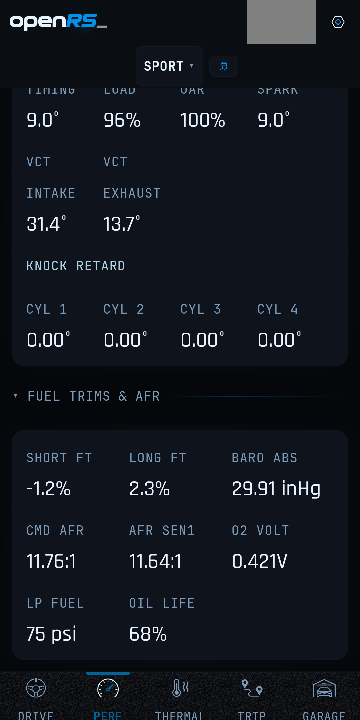
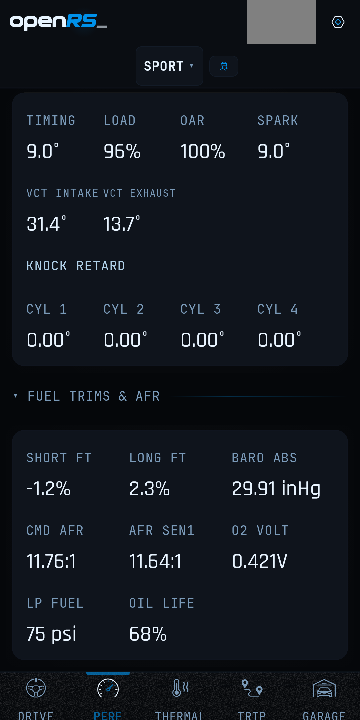
Keep readout grid labels clear of the next column (#593)
At 360 dp and font 1.3 TRIP's live readout drew FUEL USED up against ECONOMY
(2.3 dp apart): the label filled its quarter of the row.

ReadoutGrid's captions are now ReadoutLabel: InstrumentLabel's look (Material's
text style underneath, so nothing moves at font 1.0), one line, 4 dp of end
padding, and a step-based auto size from 10 sp down to 7 sp when the column is
too narrow. It applies to every ReadoutGrid (TRIP, replay, summary, POWER,
DIAG).

TripReadoutFitTest composes the production TripPage at 360 dp, font 1.0 / 1.3,
in every fuel and economy unit; it failed on staging for all 12 unit pairs at
1.3 and passes now. Goldens re-recorded: only font 1.3 and 2.0 images of TRIP,
PERF and DIAG changed.

Changed region(s): [[0.0611, 0.1222, 0.4583, 0.275], [0.7028, 0.1222, 0.825, 0.2139], [0.4889, 0.1528, 0.6111, 0.2139]]

diff --git a/android/app/src/test/java/com/openrs/dash/TripReadoutFitTest.kt b/android/app/src/test/java/com/openrs/dash/TripReadoutFitTest.kt
@@ -1,0 +1,126 @@
+package com.openrs.dash
+
+import android.os.Looper
+import android.view.View
+import android.view.ViewGroup
+import androidx.activity.ComponentActivity
+import androidx.activity.compose.setContent
+import androidx.compose.material3.MaterialTheme
+import androidx.compose.material3.darkColorScheme
+import androidx.compose.ui.platform.ViewRootForTest
+import androidx.compose.ui.semantics.SemanticsActions
+import androidx.compose.ui.semantics.SemanticsNode
+import androidx.compose.ui.semantics.SemanticsProperties
+import androidx.compose.ui.semantics.getOrNull
+import androidx.compose.ui.text.TextLayoutResult
+import com.openrs.dash.data.DriveState
+import com.openrs.dash.data.VehicleState
+import com.openrs.dash.ui.Accent
+import com.openrs.dash.ui.Bg
+import com.openrs.dash.ui.Surf
+import com.openrs.dash.ui.UserPrefs
+import com.openrs.dash.ui.trip.TripPage
+import com.openrs.dash.ui.units.UnitIds
+import org.junit.After
+import org.junit.Assert.assertEquals
+import org.junit.Test
+import org.junit.runner.RunWith
+import org.robolectric.Robolectric
+import org.robolectric.RobolectricTestRunner
+import org.robolectric.RuntimeEnvironment
+import org.robolectric.Shadows.shadowOf
+import org.robolectric.annotation.Config
+import org.robolectric.annotation.GraphicsMode
+import org.robolectric.shadows.ShadowChoreographer
+import java.time.Duration
+
+/**
+ * #593: at 360 dp and font 1.3 the label of TRIP's live readout grid ran into its neighbour ("FUEL USEDECONOMY"). The
+ * production [TripPage] (idle, no map, as the screenshot test draws it) under the app's MaterialTheme at 360 dp, font
+ * 1.0 and 1.3, in every fuel volume and economy unit: each label of the readout's three rows is one line and ends at
+ * least [GAP_DP] before the next column's label starts.
+ */
+@RunWith(RobolectricTestRunner::class)
+@GraphicsMode(GraphicsMode.Mode.NATIVE)
+@Config(qualifiers = "w360dp-h720dp-xxhdpi", application = OpenRSDashApp::class)
+class TripReadoutFitTest {
+
+    private companion object {
+        const val GAP_DP = 4f
+        val SCALES = listOf(1.0f, 1.3f)
+        val FUEL = listOf(UnitIds.L, UnitIds.US_GAL, UnitIds.UK_GAL)
+        val ECONOMY = listOf(UnitIds.L100KM, UnitIds.KML, UnitIds.MPG_US, UnitIds.MPG_UK)
+        /** The first label of each row; the rest of a row is every text placed level with it. */
+        val ROW_STARTS = listOf("SPEED", "COOLANT", "RDU")
+    }
+
+    @After fun tearDown() {
+        RuntimeEnvironment.setFontScale(1f)
+        idle(8)
+    }
+
+    private fun idle(frames: Int) = repeat(frames) { shadowOf(Looper.getMainLooper()).idleFor(Duration.ofMillis(16)) }
+
+    private fun nodes(root: SemanticsNode): List<SemanticsNode> = listOf(root) + root.children.flatMap { nodes(it) }
+
+    private fun textOf(n: SemanticsNode): String? = n.config.getOrNull(SemanticsProperties.Text)?.joinToString("") { it.text }
+
+    private fun composeRoot(v: View): ViewRootForTest? = v as? ViewRootForTest
+        ?: (v as? ViewGroup)?.let { g -> (0 until g.childCount).firstNotNullOfOrNull { composeRoot(g.getChildAt(it)) } }
+
+    private fun lines(n: SemanticsNode): Int? {
+        val layout = mutableListOf<TextLayoutResult>()
+        n.config.getOrNull(SemanticsActions.GetTextLayoutResult)?.action?.invoke(layout)
+        return layout.firstOrNull()?.lineCount
+    }
+
+    /** A connected car with every readout present (US-style mid-drive values; the labels don't depend on them). */
+    private val vs = VehicleState(
+        isConnected = true, speedKph = 100.0, rpm = 4340.0, coolantTempC = 93.0, oilTempC = 101.0, ambientTempC = 21.0,
+        fuelLevelPct = 61.0, rduTempC = 53.0, ptuTempC = 70.0,
+    )
+
+    private fun problems(fontScale: Float, fuel: String, economy: String): List<String> {
+        RuntimeEnvironment.setFontScale(fontScale)
+        ShadowChoreographer.setPaused(true)
+        ShadowChoreographer.setFrameDelay(Duration.ofMillis(16))
+        val p = UserPrefs(fuelUnit = fuel, economyUnit = economy)
+        val controller = Robolectric.buildActivity(ComponentActivity::class.java).setup()
+        controller.get().setContent {
+            MaterialTheme(colorScheme = darkColorScheme(background = Bg, surface = Surf, primary = Accent)) {
+                TripPage(DriveState(), vs, p, settled = false)
+            }
+        }
+        try {
+            idle(60)
+            val case = "font $fontScale $fuel $economy"
+            val density = controller.get().resources.displayMetrics.density
+            val root = composeRoot(controller.get().window.decorView)!!.semanticsOwner.unmergedRootSemanticsNode
+            val texts = nodes(root).filter { it.layoutInfo.isPlaced && textOf(it) != null }
+            val out = mutableListOf<String>()
+            for (start in ROW_STARTS) {
+                val first = texts.firstOrNull { textOf(it) == start }
+                if (first == null) { out += "[$case] '$start' not found"; continue }
+                val top = first.boundsInRoot.top
+                val row = texts.filter { kotlin.math.abs(it.boundsInRoot.top - top) < 0.5f }.sortedBy { it.boundsInRoot.left }
+                if (row.size != 4) out += "[$case] row '$start' has ${row.size} labels: ${row.map { textOf(it) }}"
+                row.forEach { if (lines(it) != 1) out += "[$case] '${textOf(it)}' takes ${lines(it)} lines" }
+                row.zipWithNext().forEach { (a, b) ->
+                    // the text as drawn, not its node's box: a one-line label's box is its text's width
+                    val gap = (b.boundsInRoot.left - a.boundsInRoot.right) / density
+                    if (gap < GAP_DP) out += "[$case] '${textOf(a)}' ends ${"%.1f".format(gap)} dp from '${textOf(b)}'"
+                }
+                println("#593 [$case] ${row.map { textOf(it) to it.boundsInRoot.width / density }}")
+            }
+            return out
+        } finally {
+            controller.pause().stop().destroy()
+            idle(8)
+        }
+    }
+
+    @Test fun `TRIP readout labels keep a gap - 360 dp, font 1_0 1_3, every fuel and economy unit`() {
+        val out = SCALES.flatMap { fs -> FUEL.flatMap { f -> ECONOMY.flatMap { e -> problems(fs, f, e) } } }
+        assertEquals(emptyList<String>(), out)
+    }
+}

diff --git a/android/app/src/main/java/com/openrs/dash/ui/Instrument.kt b/android/app/src/main/java/com/openrs/dash/ui/Instrument.kt
@@ -367,6 +367,27 @@ internal data class Readout(
  * [dense] (TRIP's live panel under the map) tightens spacing and the value size, not the captions;
  * [footer] adds content inside the same panel after the rows.
  */
+/**
+ * A [ReadoutGrid] caption: [InstrumentLabel]'s look, on one line, at least 4 dp clear of the next column. When a
+ * large font size makes it wider than its column it steps down in size (to 7 sp) instead of wrapping or running into
+ * its neighbour — "FUEL USED" met "ECONOMY" on TRIP at 360 dp, font 1.3 (#593).
+ */
+@Composable private fun ReadoutLabel(text: String) {
+    androidx.compose.foundation.layout.Box(Modifier.padding(end = 4.dp)) {
+        androidx.compose.foundation.text.BasicText(
+            text,
+            // Material's Text style underneath, as InstrumentLabel draws it: the same line height and font padding
+            style = androidx.compose.material3.LocalTextStyle.current.merge(
+                color = textColor(Dim), fontFamily = JetBrainsMonoFamily, fontSize = 10.sp, letterSpacing = 0.5.sp,
+            ),
+            maxLines = 1,
+            autoSize = androidx.compose.foundation.text.TextAutoSize.StepBased(
+                minFontSize = 7.sp, maxFontSize = 10.sp, stepSize = 0.25.sp,
+            ),
+        )
+    }
+}
+
 @Composable internal fun ReadoutGrid(
     rows: List<List<Readout?>>, level: Level = Level.NORMAL, captions: Map<Int, String> = emptyMap(),
     dense: Boolean = false, footer: (@Composable () -> Unit)? = null,
@@ -383,7 +404,7 @@ internal data class Readout(
                     Column(Modifier.weight(1f)) {
                         if (r != null) {
                             val placeholder = r.value.startsWith("—")
-                            InstrumentLabel(r.label)
+                            ReadoutLabel(r.label)
                             Spacer(Modifier.height(2.dp))
                             DataNum(r.value, if (dense) 16.sp else 18.sp,
                                 if (placeholder) Dim else if (r.color == Color.Unspecified) Frost else r.color)

diff --git a/android/changelog.d/fixed/593-trip-readout-labels.md b/android/changelog.d/fixed/593-trip-readout-labels.md
@@ -1,0 +1,1 @@
+- **TRIP's readout labels keep a gap at large font sizes** — At 360 dp and font 1.3 TRIP's FUEL USED label ran into ECONOMY beside it. A label in the readout grids (TRIP, PERF, DIAG) now stays on one line at least 4 dp clear of the next column, stepping down in size when its column is too narrow (`TripReadoutFitTest`). ([#593](https://github.com/klexical/openRS_/issues/593))
